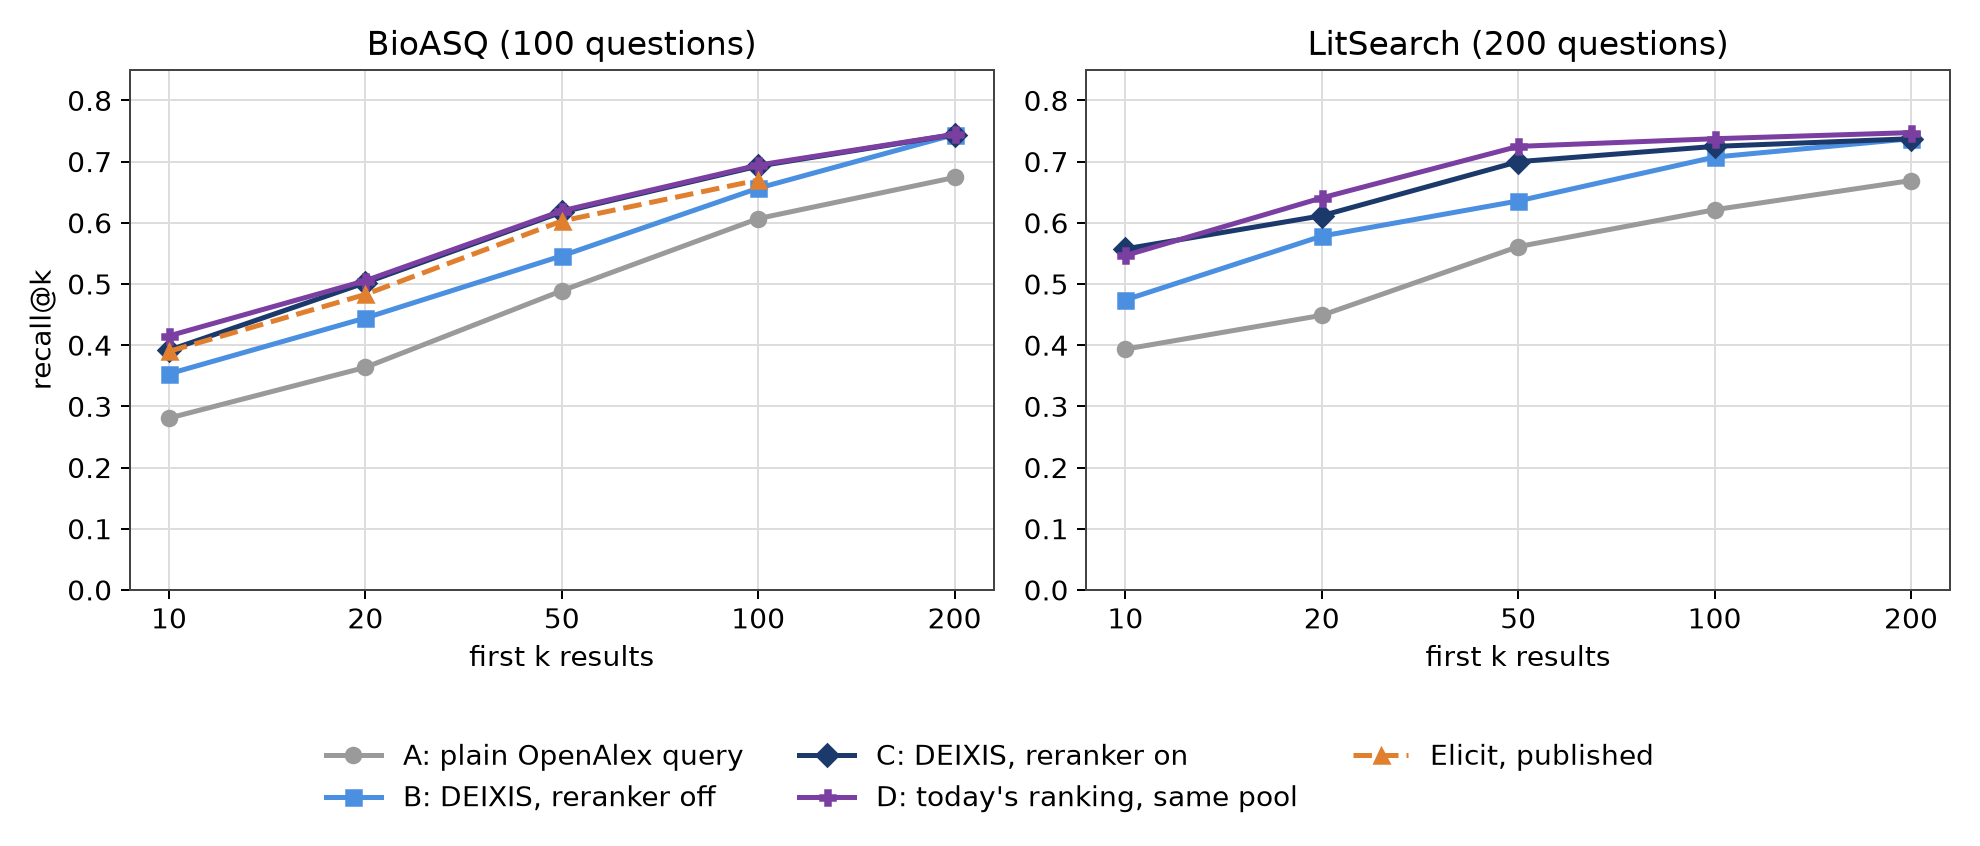
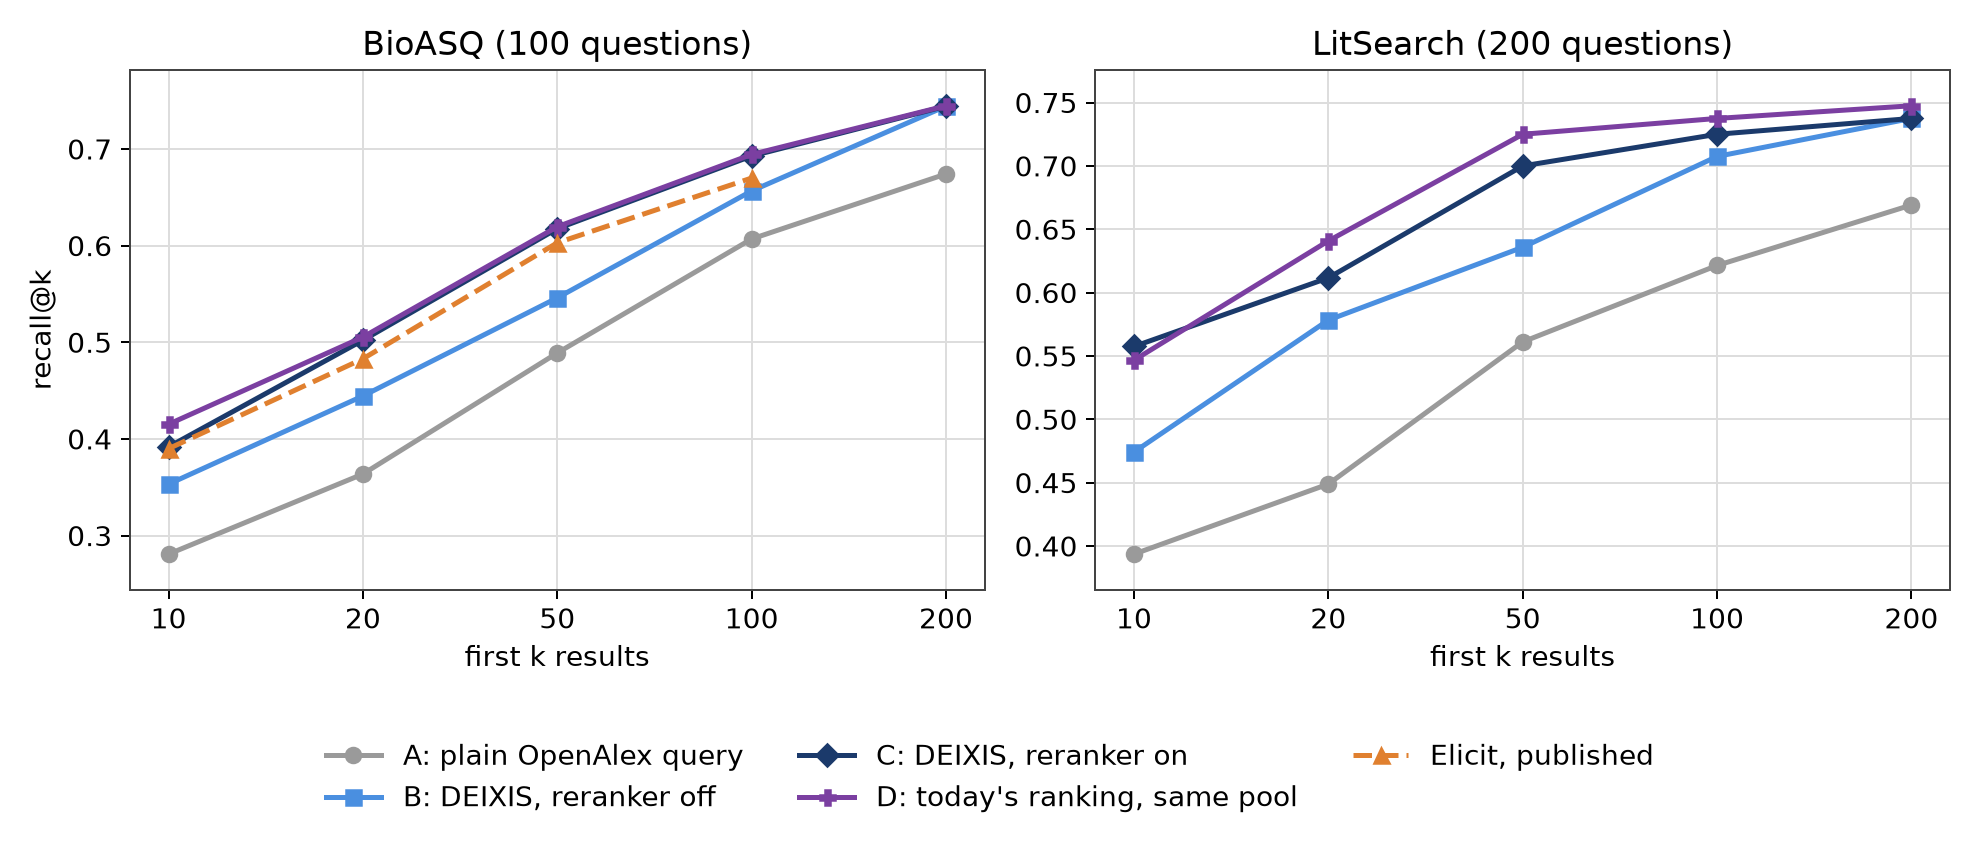
The benchmark page is rewritten in plain words, and the recall chart's y axis fits the data instead of starting at zero

diff --git a/scripts/benchmark/figures.py b/scripts/benchmark/figures.py
@@ -63,7 +63,7 @@ def recall_figure(out, replay_scores):
         ax.set_title(title)
         ax.set_xticks(range(len(KS)), [str(k) for k in KS])
         ax.set_xlabel("first k results")
-        ax.set_ylim(0, 0.85)
+        ax.margins(y=0.08)  # y axis fits the data, with a little room above and below
         ax.set_axisbelow(True)
     axes[0].set_ylabel("recall@k")
     handles, labels = [], []

diff --git a/docs/benchmark.md b/docs/benchmark.md
@@ -1,119 +1,89 @@
 # Search benchmark
 
-Two question sets, run on 2026-10-18 with the owner's settings. Each set has papers chosen by experts or authors for
-every question, and the score is how many of them appear near the top of the candidate list. Reading and answers are
-not measured.
+## What this measures
 
-| Set | Questions | Gold papers per question | Field |
-|---|---|---|---|
-| **BioASQ** | 100 of 5,486 | about 11 | biomedicine |
-| **LitSearch** (Ajith et al., EMNLP 2024) | 200 of 597 | about 1 | ML and NLP |
+This benchmark checks whether papers selected by experts or authors appear near the top of a search result list. It scores the order of candidate papers before DEIXIS screens or reads them. It does not test full-text reading, the answer, or whether a citation supports an answer.
 
-**In short**
+## Question sets
 
-- DEIXIS finds more gold papers than one plain OpenAlex query on both sets.
-- The reranker helps on both sets.
-- Replaying today's ranking on the same pools adds little on BioASQ; on LitSearch it adds about 0.025 at 50 results,
-  with a paired interval above zero.
-- On BioASQ, DEIXIS with the reranker is close to Elicit's published figures
-  ([Evaluating Elicit's paper search](https://elicit.com/blog/evaluating-elicit-paper-search)).
+The two sets cover different fields and have different numbers of known papers per question. A *gold paper* is a paper listed as relevant in the set's reference data.
 
-![Recall at 10 to 200 results for each set and arm](../assets/benchmark-recall.png)
+| Set | Questions tested | Questions in set | Mean gold papers per tested question | Field |
+|---|---:|---:|---:|---|
+| BioASQ | 100 | 5,486 | 10.980 | Biomedicine |
+| LitSearch | 200 | 597 | 1.040 | Machine learning and natural language processing |
 
-## Arms and settings
+BioASQ uses expert document lists from its Task B questions. LitSearch uses papers linked to its research questions.
 
-- **A**: one OpenAlex keyword query written by the same model, first 200 results (Elicit's baseline).
-- **B**: DEIXIS with the reranker off (the fused order).
-- **C**: DEIXIS with the reranker on. B and C come from the same run, so the rerank is the only difference between them.
-- **D**: today's ranking (rerank rule version 6) replayed later on the same 18 Oct questions, queries and retrieved
-  records. It does not measure the newer phrase or shared search routes because their records are absent from these
-  pools; the abstract lookup before reranking was not replayed either.
+## Search lists compared
 
-Settings: Voyage `voyage-4-lite` for semantic similarity, Voyage `rerank-3-lite` for reranking (pool factor 4),
-Standard depth, Claude Sonnet 5.5 at medium effort writing the queries. The harness writes these into a temporary data
-folder and reads them back before the first question. Every row records them. A provider failure stops the run. It is
-never scored as a product result.
+Each arm ranks papers for the same questions. The A, B and C scores come from the 18 October 2026 runs.
 
-Recall@k is the share of a question's gold papers in the first k results, averaged over questions. Intervals are
-paired 95% bootstrap intervals over questions (10,000 resamples). A failed question counts as zero in a paired
-difference.
+- **A:** The first 200 results from one OpenAlex keyword query written by the query model.
+- **B:** DEIXIS's combined ranking before reranking.
+- **C:** The same DEIXIS pool as B, with a reranker changing its order.
+- **D:** The ranking rule in use at the 13 November 2026 replay, applied to the stored 18 October pools.
 
-![Paired differences at 50 results with 95% intervals](../assets/benchmark-gains.png)
+D isolates a change in ranking on the stored papers. It cannot measure later search routes, because papers those routes might find are absent from the stored pools. It also does not replay the later lookup that fills missing abstracts before reranking.
+
+## Settings
+
+The runs used Standard depth and Claude Sonnet 5.5 at medium effort to write queries. DEIXIS used Voyage `voyage-4-lite` for semantic similarity and Voyage `rerank-3-lite` for reranking. C scored the first 200 papers in the combined order. D used a 400-paper reranker window that starts with those 200 papers and fills the rest from other ranking signals. The tables report the first 10, 20, 50, 100 and 200 results.
+
+## Score and uncertainty
+
+Recall@k is the fraction of a question's gold papers found in its first k results, averaged across questions. A paired 95% bootstrap interval repeatedly resamples the same questions for both arms and gives a range for their mean recall difference.
 
 ## Results
 
-| | @10 | @20 | @50 | @100 | @200 |
-|---|---|---|---|---|---|
-| **BioASQ (100)** | | | | | |
-| A: plain OpenAlex | 0.281 | 0.364 | 0.489 | 0.607 | 0.674 |
-| B: DEIXIS, reranker off | 0.353 | 0.445 | 0.546 | 0.657 | 0.744 |
-| C: DEIXIS, reranker on | **0.392** | **0.502** | **0.618** | **0.693** | **0.744** |
-| D: today's ranking, same pool | 0.415 | 0.505 | 0.620 | 0.694 | 0.745 |
-| D − C | +0.023 (−0.017 to +0.066) | +0.002 (−0.023 to +0.027) | +0.002 (−0.020 to +0.027) | +0.002 (−0.011 to +0.015) | +0.000 (−0.009 to +0.010) |
-| C − B | +0.039 (−0.005 to +0.084) | +0.058 (+0.012 to +0.105) | +0.072 (+0.037 to +0.108) | +0.036 (+0.021 to +0.054) | 0 |
-| C − A | +0.114 (+0.048 to +0.180) | +0.142 (+0.076 to +0.209) | +0.133 (+0.072 to +0.199) | +0.092 (+0.037 to +0.149) | +0.077 (+0.028 to +0.129) |
-| [Elicit, as published](https://elicit.com/blog/evaluating-elicit-paper-search) (5,486 questions) | 0.390 | 0.483 | 0.603 | 0.670 | |
-| **LitSearch (200)** | | | | | |
-| A: plain OpenAlex | 0.394 | 0.449 | 0.561 | 0.621 | 0.669 |
-| B: DEIXIS, reranker off | 0.474 | 0.578 | 0.636 | 0.708 | 0.738 |
-| C: DEIXIS, reranker on | **0.557** | **0.612** | **0.700** | **0.725** | **0.738** |
-| D: today's ranking, same pool | 0.547 | 0.641 | 0.725 | 0.738 | 0.748 |
-| D − C | −0.011 (−0.057 to +0.034) | +0.029 (−0.008 to +0.069) | +0.025 (+0.005 to +0.050) | +0.013 (+0.000 to +0.028) | +0.010 (+0.000 to +0.025) |
-| C − B | +0.083 (+0.026 to +0.142) | +0.033 (−0.020 to +0.085) | +0.064 (+0.019 to +0.112) | +0.018 (−0.005 to +0.043) | 0 |
-| C − A | +0.166 (+0.095 to +0.237) | +0.165 (+0.095 to +0.235) | +0.142 (+0.075 to +0.209) | +0.107 (+0.040 to +0.174) | +0.072 (+0.003 to +0.142) |
+The tables show mean recall for each arm. Higher values mean more gold papers appear within the stated number of results.
 
-- The reranker reorders only the top of the list, so B and C are equal at 200.
-- D − C uses the replayed C scores; replayed A, B and C differ from the stored report by at most 0.00125.
-- BioASQ: Elicit's figures come from all 5,486 questions and ours from a sample, so the two are not compared
-  statistically.
-- LitSearch: almost every request has one gold paper, so each question scores 0 or 1 and the intervals stay wide.
-- No DEIXIS question failed on any set. A plain OpenAlex query failed once on BioASQ and once on LitSearch.
-- Cost: about $0.033 of OpenAlex budget per DEIXIS question. Voyage cost under $0.01 per question.
+### BioASQ
 
-## Papers DEIXIS never retrieved
+BioASQ has 100 tested questions. The D ranking changes little at 50 results on the stored pool.
 
-These are gold papers that plain OpenAlex has in its first 200 but that never enter DEIXIS's candidate list: 17 on
-LitSearch (12% of the gold papers plain OpenAlex found) and 57 on BioASQ (9%). DEIXIS's own queries were run again on
-OpenAlex (title and abstract search, up to 2,000 results each) to find the cause.
+| Arm | @10 | @20 | @50 | @100 | @200 |
+|---|---:|---:|---:|---:|---:|
+| A: OpenAlex query | 0.281 | 0.364 | 0.489 | 0.607 | 0.674 |
+| B: DEIXIS combined order | 0.353 | 0.445 | 0.546 | 0.657 | 0.744 |
+| C: DEIXIS reranked | 0.392 | 0.502 | 0.618 | 0.693 | 0.744 |
+| D: replayed ranking | 0.415 | 0.505 | 0.620 | 0.694 | 0.745 |
 
-| Why | LitSearch | BioASQ |
-|---|---|---|
-| None of DEIXIS's queries matches the paper | 12 | 23 |
-| A query matches, but the paper sits past the 500 records read per query | 5 | 34 |
-| Read, then lost later (year filter, duplicates, type) | 0 | 0 |
+At 50 results, C exceeds A by 0.133 (95% interval: +0.072 to +0.199). C exceeds B by 0.072 (+0.037 to +0.108). D exceeds replayed C by 0.002 (−0.020 to +0.027), so this comparison does not establish an improvement on BioASQ.
 
-- **The query leaves out a name or adds a topic.** For the ZEB2 question, five gold papers use the gene's old name,
-  ZFHX1B, which the plain query lists and DEIXIS's does not. For the Westermark sign, DEIXIS adds a "chest
-  radiography" block the question never mentions.
-- **The query is too broad for the depth read.** A second query of one or two words (`bromocriptine`, 11,005 results)
-  pushes the topic's own papers past 500. Reading 1,000 records would add at most 16 of the 57 BioASQ papers.
-- **Full text.** The plain query uses OpenAlex `search=`, which also matches full text; DEIXIS searches title and
-  abstract only, by design. In 13 of the 17 LitSearch losses the plain query does not match the title or abstract
-  either.
-- Some BioASQ gold papers are only loosely on the question, so not every loss is a DEIXIS error.
+### LitSearch
 
-## Method notes
+LitSearch has 200 tested questions. D places more gold papers in the first 50 results than replayed C on these stored pools.
 
-- **Matching.** A result matches a gold paper by OpenAlex id, PMID (BioASQ), DOI, then normalized title.
-- **BioASQ.** Questions from the 2b–13b golden enriched test sets of Task B (2014–2025), 5,486 in all, the count
-  Elicit reports; a fixed seed (`20261017`) draws 100. Records after the question's challenge year are removed from
-  DEIXIS's list afterwards; this removed no gold paper.
-- **Query repair.** When OpenAlex rejects arm A's query, the model repairs it once, as in Elicit's method.
-- **Query pause.** If DEIXIS pauses on a query the model wrote, the harness resumes it once, as a person would.
-- **Earlier run.** A 17 Oct BioASQ run with Gemini embedding and no reranker gave DEIXIS 0.545 at 50 results against
-  0.489 for plain OpenAlex. In that run 27% of the gold papers never entered the list and 22% sat below position 100.
+| Arm | @10 | @20 | @50 | @100 | @200 |
+|---|---:|---:|---:|---:|---:|
+| A: OpenAlex query | 0.394 | 0.449 | 0.561 | 0.621 | 0.669 |
+| B: DEIXIS combined order | 0.474 | 0.578 | 0.636 | 0.708 | 0.738 |
+| C: DEIXIS reranked | 0.558 | 0.612 | 0.700 | 0.725 | 0.738 |
+| D: replayed ranking | 0.547 | 0.641 | 0.725 | 0.738 | 0.748 |
 
-## Not measured
+At 50 results, C exceeds A by 0.142 (95% interval: +0.075 to +0.209). C exceeds B by 0.064 (+0.019 to +0.112). D exceeds replayed C by 0.025 (+0.005 to +0.050).
 
-- Reading and answers. Only the order of the candidate list is measured.
-- Run-to-run variance: each system ran once, and the model's query writing varies between runs.
-- Elicit's LLM-judged evaluation on real user searches; DEIXIS has no shared search log.
-- Whether the missed papers would rank well once in the pool, and the fixes for the query patterns above.
-- Recall depends a little on provider speed, since Standard depth has stage deadlines.
-- A gold set is not exhaustive, and a passing benchmark is not scientific validation of DEIXIS's answers.
+![Mean recall at 10, 20, 50, 100 and 200 results for both sets](../assets/benchmark-recall.png)
 
-## Run data
+The difference chart shows the paired comparisons at 50 results. The D−C intervals use C as recomputed in the replay; its BioASQ score differs slightly from the stored C report.
 
-The DEIXIS data folders behind these runs (library databases, provider responses, per-question rows) stay on the
-owner's machine and are not in this repository; the scoring code and tests are. The two figures are drawn from the
-stored scoring output by `scripts/benchmark/figures.py`.
+![Paired recall differences at 50 results with 95% bootstrap intervals](../assets/benchmark-gains.png)
+
+## Elicit's published figures
+
+Elicit's [published BioASQ search figures](https://elicit.com/blog/evaluating-elicit-paper-search) appear in the recall chart for context. Elicit reports on the full BioASQ set, while these DEIXIS results use a sample of 100 questions. The runs do not share a paired question-level comparison, so the chart is not a statistical comparison with Elicit.
+
+## Limits
+
+These scores describe where listed gold papers appear, not whether the search found every relevant paper. A paper missing from a stored pool cannot be moved upward by reranking. The questions were run once, so the tables do not measure variation in model-written queries or provider timing. One OpenAlex query failed in each set; the arm A mean omits that question, while paired differences count its score as zero. The gold lists may be incomplete, and these results do not validate DEIXIS's reading or answers.
+
+## Reproduce the figures
+
+The figure script reads the stored score reports and replay results. Run this command from the repository root on a machine with the local `notes/` data:
+
+```sh
+uv run --with matplotlib python scripts/benchmark/figures.py
+```
+
+It writes `assets/benchmark-recall.png` and `assets/benchmark-gains.png`.
